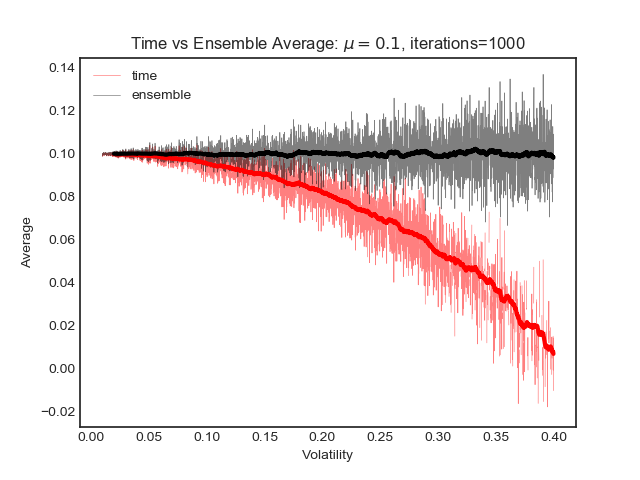
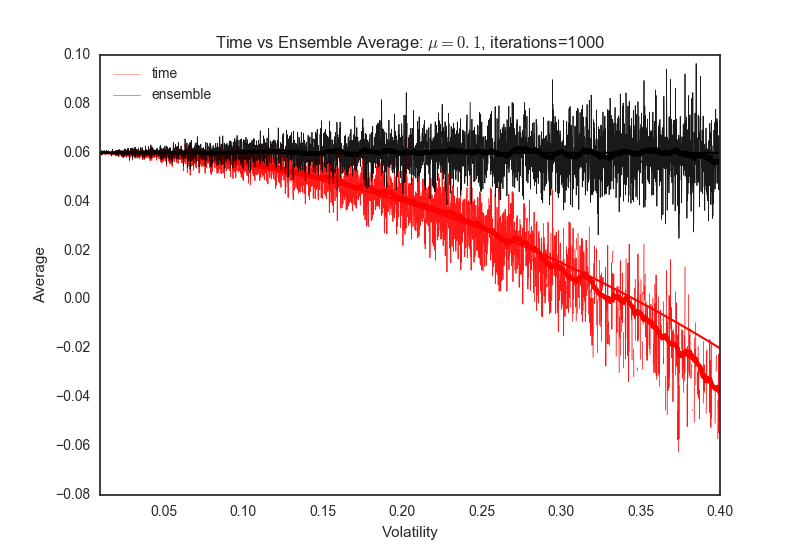
1) various

Changed region(s): [[0.0312, 0.0625, 0.9375, 1.0]]

diff --git a/Stats&Probability/time_average_vs_ensemble_average.py b/Stats&Probability/time_average_vs_ensemble_average.py
@@ -4,14 +4,12 @@ import matplotlib.pyplot as plt
 import seaborn as sns
 
 """
-
 References:
 - Optimal Leverage From Non Ergodicity, Ole Peters [https://arxiv.org/pdf/0902.2965.pdf]
-- as a f(t)
-- how is diffusion process? can go < 0
 
-- Insert theoretical prob
- 
+- Average as a function of time
+- How is diffusion process? can go < 0
+- Insert theoretical prob 
 """
 
 sns.set_style('white')
@@ -35,7 +33,6 @@ def time_vs_ensemble_average(mean, st_dev, size):
 collection = {}
 for i in np.arange(0.01, 0.4, 0.0001):
     time_and_ensemble_dict = {}
-    t_avg, e_avg = time_vs_ensemble_average(mean_value, i, iterations)
     t_avg, e_avg, te_avg, tt_avg = time_vs_ensemble_average(0.06, i, 1000)
 
     time_and_ensemble_dict['time'] = t_avg
@@ -53,6 +50,10 @@ to_plot.loc[:, 'time'].plot(ax=ax, linewidth=0.5, c='red', alpha=0.5, legend=Tru
 to_plot.loc[:, 'ensemble'].plot(ax=ax, linewidth=0.5, c='black', alpha=0.5, legend=True)
 to_plot.loc[:, 'time'].ffill().rolling(window=100).mean().plot(ax=ax, linewidth=3, c='red', legend=False)
 to_plot.loc[:, 'ensemble'].rolling(window=100).mean().plot(ax=ax, linewidth=3, c='black', legend=False)
+to_plot.loc[:, 'time'].plot(ax=ax, linewidth=0.5, c='red', alpha=0.8)
+to_plot.loc[:, 'theoretical_time'].plot(ax=ax, linewidth=1.5, c='red', alpha=1)
+to_plot.loc[:, 'ensemble'].plot(ax=ax, linewidth=0.5, c='black', alpha=0.8)
+to_plot.loc[:, 'theoretical_ensemble'].plot(ax=ax, linewidth=1.5, c='black', alpha=1)
 
 ax.set_xlabel('Volatility')
 ax.set_ylabel('Average')
@@ -60,9 +61,5 @@ ax.set_title(r'Time vs Ensemble Average: $\mu=%s$, iterations=%s' % (str(mean_va
 
 if save_figure:
     plt.savefig('time_average_vs_ensemble_average.png', transparent=True)
-to_plot.loc[:, 'time'].plot(ax=ax, linewidth=0.5, c='red', alpha=0.8)
-to_plot.loc[:, 'theoretical_time'].plot(ax=ax, linewidth=1.5, c='red', alpha=1)
-to_plot.loc[:, 'ensemble'].plot(ax=ax, linewidth=0.5, c='black', alpha=0.8)
-to_plot.loc[:, 'theoretical_ensemble'].plot(ax=ax, linewidth=1.5, c='black', alpha=1)
 
 plt.show()
